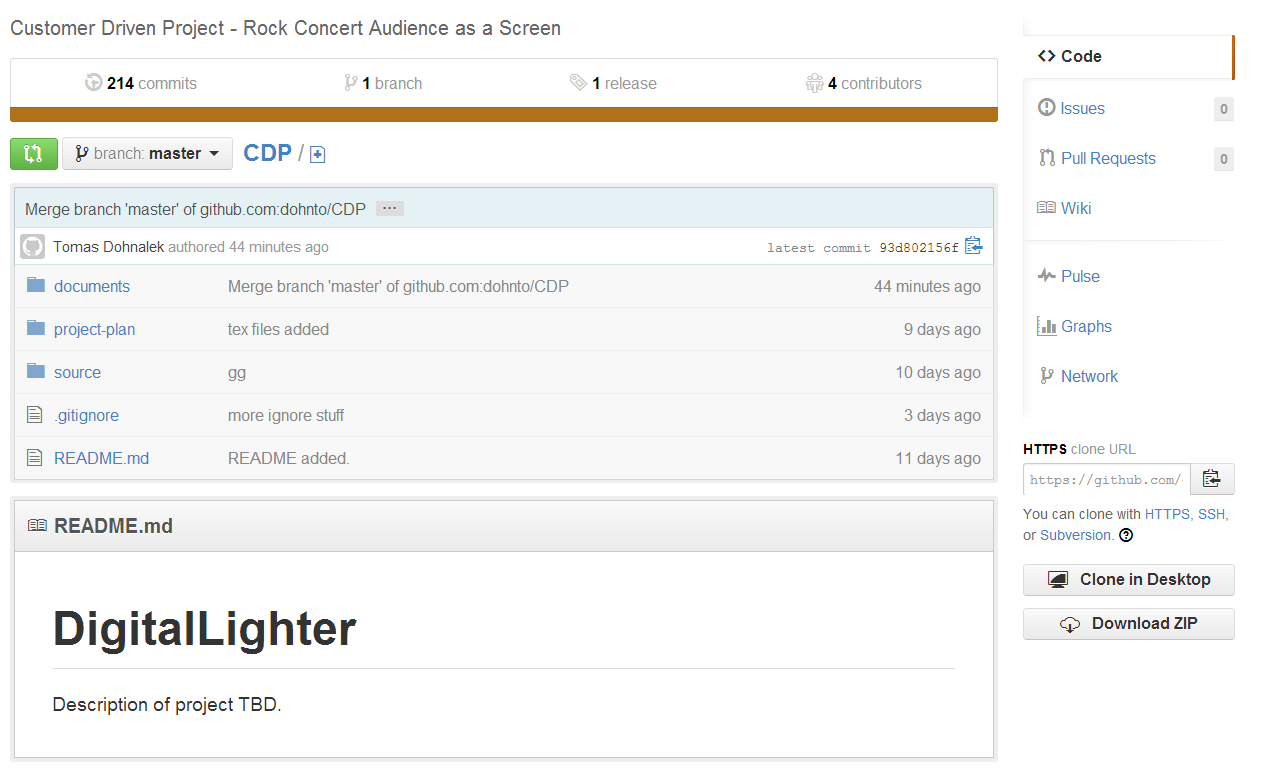
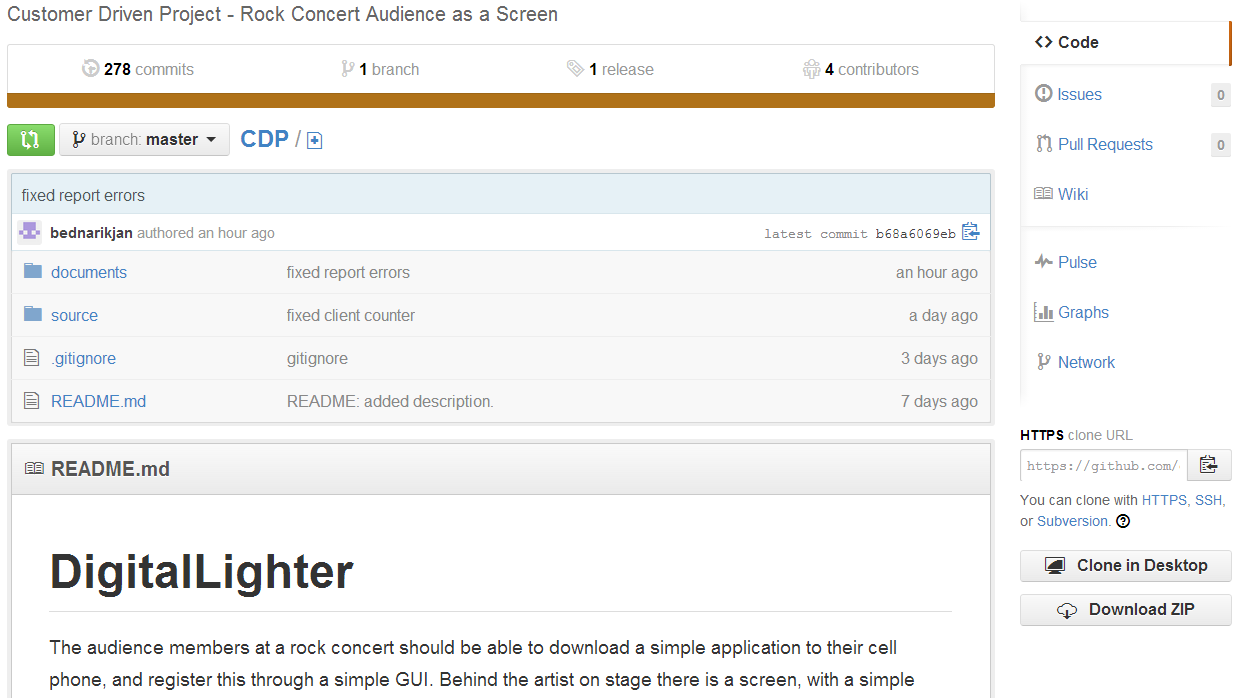
sprint1+new git image

diff --git a/documents/report/sprint1/sprint1.tex b/documents/report/sprint1/sprint1.tex
@@ -37,17 +37,51 @@ Client application should be able to light up different sequences of lights depe
 And server application should be responsible for awaiting incoming clients connections, mapping clients to the grid and providing command play signals to the clients by broadcast.
 Communication should be established over wireless network using same router for both applications, the user and the server, and without need for third party server nor Internet connection. 
 
-\subsection{"4+1" view model}
-For illustrating software architecture "4+1" Architectural Model View will be used.
+\begin{figure}[!h]
+	\centering
+		\includegraphics[width=7cm]{sprint1/arhitecture.png}
+	\caption{Client-server architecture}
+	\label{fig:sprint1_arhitecture}
+\end{figure}
 
-\subsubsection{Logical View}
-A description of the functional requirements of the architecture. The system is decomposed into a set of key abstractions, taken(mostly) from the problem domain, in the form of objects or object classes.
+\subsection{"4+1" architectural view model}
+For illustrating software architecture "4+1" architectural Model View\ref{fig:4+1 } will be used. It is based on the multiple concurrent views.
 
 \begin{figure}[!h]
 	\centering
-		\includegraphics[width=7cm]{sprint1/sprint1_class.png}
-	\caption{Sprint 1 Architecture}
-	\label{fig:sprint1_arhitecture}
+		\includegraphics[width=7cm]{sprint1/4+1.png}
+	\caption{"4+1" architectural view model}
+	\label{fig:4+1 }
+\end{figure}
+
+\subsubsection{Logical View}
+A description of the functional requirements of the architecture. The client and the server are decomposed into a set of key abstractions, taken(mostly) from the problem domain, in the form of objects or object classes.
+
+Figure \ref{fig:class_diagram_client} gives an overview of the client class structure and collaboration. As planed client have all of the functionality covered by user stories. 
+
+\begin{figure}[!H]
+	\centering
+		\includegraphics[width=10cm]{sprint1/class_diagram_client.png}
+	\caption{Sprint 1 client class diagram}
+	\label{fig:class_diagram_client}
+\end{figure}
+
+Figure \ref{fig:class_diagram_server} gives an overview of the server class structure and collaboration. We made separate thread "ServerThread" for incoming clients to optimize server. Sending command signals is also moved from ui thread to "SendingThread" in order to live more processing power for modules like image processing.
+
+\begin{figure}[!Ht]
+	\centering
+		\includegraphics[width=10cm]{sprint1/class_diagram_server.png}
+	\caption{Sprint 1 server class diagram}
+	\label{fig:class_diagram_server}
+\end{figure}
+
+In the sequence diagram \ref{fig:sprint1_communication} is showed how applications can be used. It gives an idea of how the data flows between different parts of the system when it is up and running.
+
+\begin{figure}[!Ht]
+	\centering
+		\includegraphics[width=7cm]{sprint1/communication.png}
+	\caption{Sprint 1 Communication}
+	\label{fig:sprint1_communication}
 \end{figure}
 
 \subsubsection{Physical View}
@@ -55,26 +89,6 @@ A description of the functional requirements of the architecture. The system is 
 \subsubsection{Process View}
 
 \subsubsection{Development View}
-
-
-\begin{figure}[!h]
-	\centering
-		\includegraphics[width=7cm]{sprint1/arhitecture.png}
-	\caption{Sprint 1 Architecture}
-	\label{fig:sprint1_arhitecture}
-\end{figure}
-
-
-\begin{figure}[!h]
-	\centering
-		\includegraphics[width=7cm]{sprint1/communication.png}
-	\caption{Sprint 1 Communication}
-	\label{fig:sprint1_communication}
-\end{figure}
-
-
-
-
 
 \section{Implementation}
 
